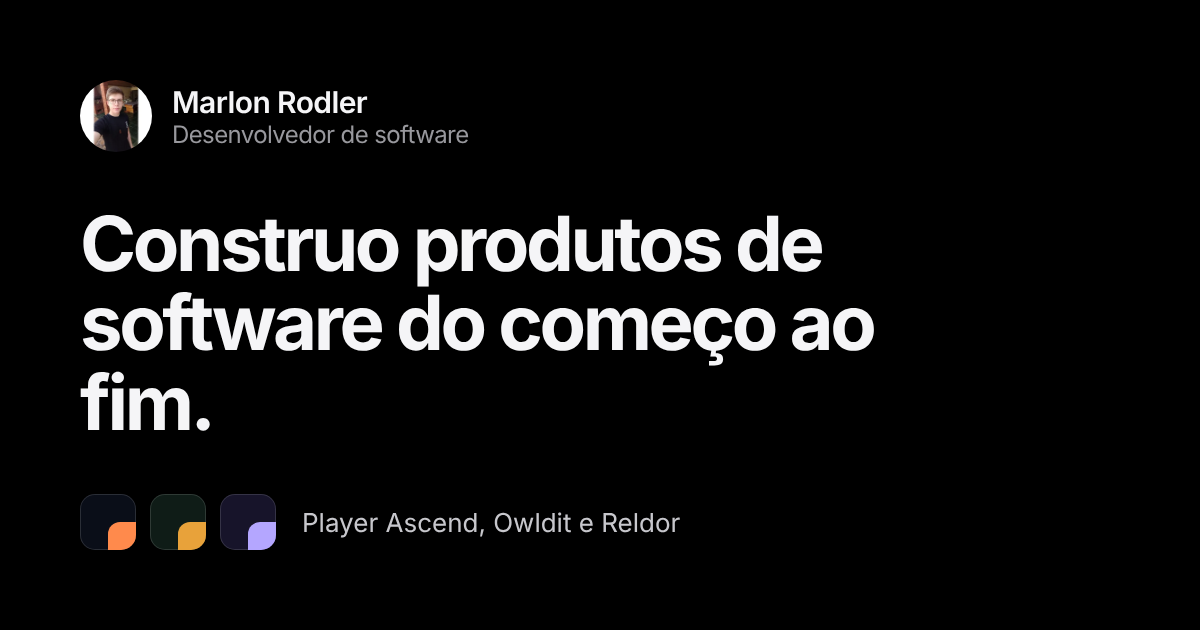
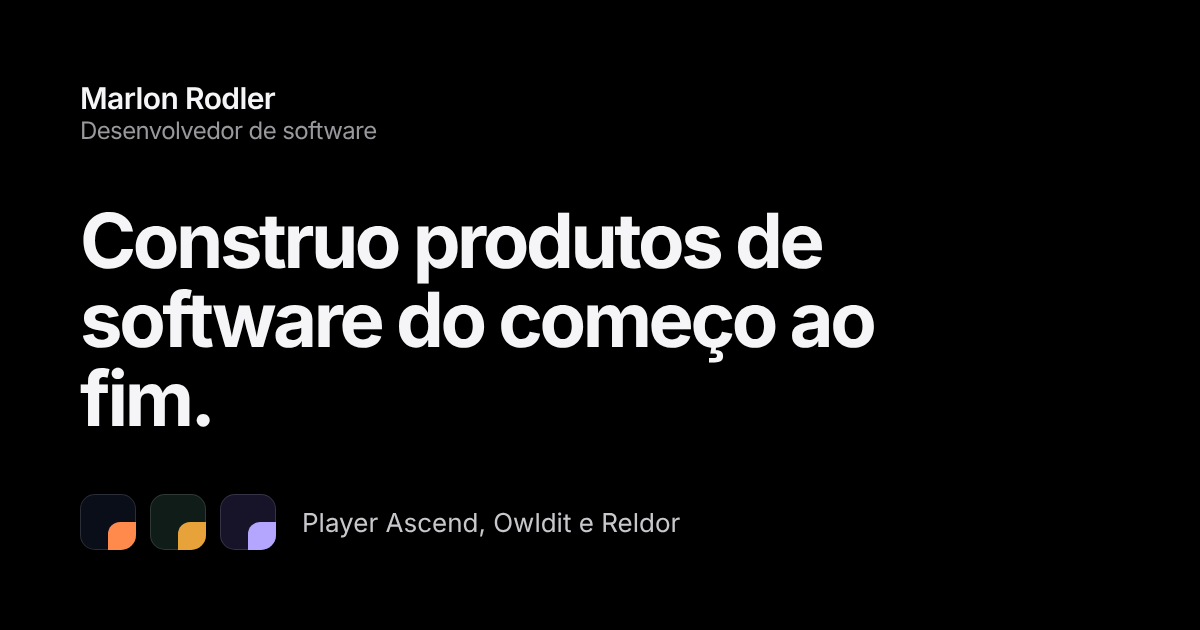
Contato pelo LinkedIn e site sem foto por enquanto
Claude-Session: https://claude.ai/code/session_01Ba6k82qajC9v6rEK4Nmhgg

diff --git a/index.html b/index.html
@@ -23,7 +23,7 @@
 <link rel="apple-touch-icon" href="/assets/img/apple-touch-icon.png">
 <script>try{var m=localStorage.getItem('theme');if(m==='light'||m==='dark')document.documentElement.dataset.theme=m}catch(_){}</script>
 <link rel="stylesheet" href="/assets/site.css">
-<script type="application/ld+json">{"@context":"https://schema.org","@type":"Person","name":"Marlon Rodler","jobTitle":"Desenvolvedor de software","url":"https://marlonrodler.github.io/","sameAs":["https://github.com/marlonrodler"]}</script>
+<script type="application/ld+json">{"@context":"https://schema.org","@type":"Person","name":"Marlon Rodler","jobTitle":"Desenvolvedor de software","url":"https://marlonrodler.github.io/","sameAs":["https://github.com/marlonrodler","https://www.linkedin.com/in/marlonrodler/"]}</script>
 </head>
 <body>
 <a class="skip" href="#conteudo">Pular para o conteúdo</a>
@@ -38,7 +38,7 @@
       <div class="seg" role="group" aria-label="Tema">
         <button type="button" class="seg__btn" data-theme-choice="auto" aria-pressed="false" title="Automático"><svg class="icon" viewBox="0 0 24 24" width="20" height="20" fill="none" stroke="currentColor" stroke-width="1.6" stroke-linecap="round" stroke-linejoin="round" aria-hidden="true" focusable="false"><circle cx="12" cy="12" r="8"/><path d="M12 4a8 8 0 0 1 0 16z" fill="currentColor" stroke="none"/></svg><span class="sr-only">Automático</span></button><button type="button" class="seg__btn" data-theme-choice="light" aria-pressed="false" title="Claro"><svg class="icon" viewBox="0 0 24 24" width="20" height="20" fill="none" stroke="currentColor" stroke-width="1.6" stroke-linecap="round" stroke-linejoin="round" aria-hidden="true" focusable="false"><circle cx="12" cy="12" r="4"/><path d="M12 3v1.5M12 19.5V21M3 12h1.5M19.5 12H21M5.6 5.6l1.1 1.1M17.3 17.3l1.1 1.1M5.6 18.4l1.1-1.1M17.3 6.7l1.1-1.1"/></svg><span class="sr-only">Claro</span></button><button type="button" class="seg__btn" data-theme-choice="dark" aria-pressed="false" title="Escuro"><svg class="icon" viewBox="0 0 24 24" width="20" height="20" fill="none" stroke="currentColor" stroke-width="1.6" stroke-linecap="round" stroke-linejoin="round" aria-hidden="true" focusable="false"><path d="M19 14.5A7.5 7.5 0 0 1 9.5 5a7.5 7.5 0 1 0 9.5 9.5z"/></svg><span class="sr-only">Escuro</span></button>
       </div>
-      <a class="icon-btn" href="https://github.com/marlonrodler" target="_blank" rel="noopener noreferrer" aria-label="GitHub (abre em nova aba)"><svg class="icon" viewBox="0 0 24 24" width="20" height="20" fill="currentColor" aria-hidden="true" focusable="false"><path d="M12 2.5a9.5 9.5 0 0 0-3 18.52c.48.09.65-.2.65-.46v-1.6c-2.64.57-3.2-1.27-3.2-1.27-.43-1.1-1.06-1.39-1.06-1.39-.86-.59.07-.58.07-.58.95.07 1.45.98 1.45.98.85 1.45 2.22 1.03 2.76.79.09-.61.33-1.03.6-1.27-2.1-.24-4.32-1.05-4.32-4.68 0-1.03.37-1.88.98-2.54-.1-.24-.42-1.2.09-2.5 0 0 .8-.26 2.62.97a9.1 9.1 0 0 1 4.77 0c1.82-1.23 2.61-.97 2.61-.97.52 1.3.2 2.26.1 2.5.6.66.98 1.51.98 2.54 0 3.64-2.22 4.44-4.33 4.67.34.3.65.88.65 1.78v2.64c0 .26.17.56.66.46A9.5 9.5 0 0 0 12 2.5z"/></svg></a>
+      <a class="icon-btn" href="https://github.com/marlonrodler" target="_blank" rel="noopener noreferrer" aria-label="GitHub (abre em nova aba)"><svg class="icon" viewBox="0 0 24 24" width="20" height="20" fill="currentColor" aria-hidden="true" focusable="false"><path d="M12 2.5a9.5 9.5 0 0 0-3 18.52c.48.09.65-.2.65-.46v-1.6c-2.64.57-3.2-1.27-3.2-1.27-.43-1.1-1.06-1.39-1.06-1.39-.86-.59.07-.58.07-.58.95.07 1.45.98 1.45.98.85 1.45 2.22 1.03 2.76.79.09-.61.33-1.03.6-1.27-2.1-.24-4.32-1.05-4.32-4.68 0-1.03.37-1.88.98-2.54-.1-.24-.42-1.2.09-2.5 0 0 .8-.26 2.62.97a9.1 9.1 0 0 1 4.77 0c1.82-1.23 2.61-.97 2.61-.97.52 1.3.2 2.26.1 2.5.6.66.98 1.51.98 2.54 0 3.64-2.22 4.44-4.33 4.67.34.3.65.88.65 1.78v2.64c0 .26.17.56.66.46A9.5 9.5 0 0 0 12 2.5z"/></svg></a><a class="icon-btn" href="https://www.linkedin.com/in/marlonrodler/" target="_blank" rel="noopener noreferrer" aria-label="LinkedIn (abre em nova aba)"><svg class="icon" viewBox="0 0 24 24" width="20" height="20" fill="currentColor" aria-hidden="true" focusable="false"><path d="M5.3 8.6h2.9V19H5.3zM6.75 4a1.7 1.7 0 1 1 0 3.4 1.7 1.7 0 0 1 0-3.4zM10.1 8.6h2.8V10h.04c.39-.74 1.34-1.52 2.76-1.52 2.95 0 3.5 1.94 3.5 4.47V19h-2.9v-5.36c0-1.28-.02-2.92-1.78-2.92-1.78 0-2.05 1.39-2.05 2.83V19h-2.9z"/></svg></a>
       <button type="button" class="icon-btn nav-toggle" aria-expanded="false" aria-controls="nav" data-nav-toggle data-label-open="Menu" data-label-close="Fechar menu">
         <span class="nav-toggle__open"><svg class="icon" viewBox="0 0 24 24" width="20" height="20" fill="none" stroke="currentColor" stroke-width="1.6" stroke-linecap="round" stroke-linejoin="round" aria-hidden="true" focusable="false"><path d="M4 8h16M4 16h16"/></svg></span><span class="nav-toggle__close"><svg class="icon" viewBox="0 0 24 24" width="20" height="20" fill="none" stroke="currentColor" stroke-width="1.6" stroke-linecap="round" stroke-linejoin="round" aria-hidden="true" focusable="false"><path d="M6 6l12 12M18 6L6 18"/></svg></span><span class="sr-only" data-nav-label>Menu</span>
       </button>
@@ -50,7 +50,7 @@
   <section class="hero wrap" id="topo" aria-labelledby="hero-title">
     <div class="hero__intro">
       <p class="hero__who">
-        <img src="/assets/img/marlon-320.webp" width="160" height="160" alt="Foto de Marlon Rodler" fetchpriority="high">
+        
         <span><strong>Marlon Rodler</strong><span>Desenvolvedor de software</span></span>
       </p>
       <h1 id="hero-title">Construo produtos de software do começo ao fim.</h1>
@@ -172,7 +172,7 @@
   </li><li class="other">
     <div class="other__main">
       <h3>Champions Challenge</h3>
-      <p>Desafio para acertar o nome de todos os campeões de League of Legends antes de o tempo acabar.</p>
+      <p>Desafio para acertar o nome de todos os campeões de League of Legends antes que o tempo acabe.</p>
     </div>
     <div class="other__side">
       <span class="status">Em modernização</span>
@@ -212,8 +212,8 @@
 
   <section class="section wrap contact" id="contato" aria-labelledby="contato-title">
     <h2 id="contato-title">Contato</h2>
-    <p>Para conversar sobre uma vaga, um projeto ou algum dos produtos, me chame por aqui.</p>
-    <ul class="contact__links"><li><a class="contact-link" href="https://github.com/marlonrodler" target="_blank" rel="noopener noreferrer">GitHub<svg class="icon" viewBox="0 0 24 24" width="20" height="20" fill="currentColor" aria-hidden="true" focusable="false"><path d="M12 2.5a9.5 9.5 0 0 0-3 18.52c.48.09.65-.2.65-.46v-1.6c-2.64.57-3.2-1.27-3.2-1.27-.43-1.1-1.06-1.39-1.06-1.39-.86-.59.07-.58.07-.58.95.07 1.45.98 1.45.98.85 1.45 2.22 1.03 2.76.79.09-.61.33-1.03.6-1.27-2.1-.24-4.32-1.05-4.32-4.68 0-1.03.37-1.88.98-2.54-.1-.24-.42-1.2.09-2.5 0 0 .8-.26 2.62.97a9.1 9.1 0 0 1 4.77 0c1.82-1.23 2.61-.97 2.61-.97.52 1.3.2 2.26.1 2.5.6.66.98 1.51.98 2.54 0 3.64-2.22 4.44-4.33 4.67.34.3.65.88.65 1.78v2.64c0 .26.17.56.66.46A9.5 9.5 0 0 0 12 2.5z"/></svg><span class="sr-only"> (abre em nova aba)</span></a></li></ul>
+    <p>Para conversar sobre uma vaga, um projeto ou algum dos produtos, me chame no LinkedIn.</p>
+    <ul class="contact__links"><li><a class="contact-link" href="https://www.linkedin.com/in/marlonrodler/" target="_blank" rel="noopener noreferrer">LinkedIn<svg class="icon" viewBox="0 0 24 24" width="20" height="20" fill="currentColor" aria-hidden="true" focusable="false"><path d="M5.3 8.6h2.9V19H5.3zM6.75 4a1.7 1.7 0 1 1 0 3.4 1.7 1.7 0 0 1 0-3.4zM10.1 8.6h2.8V10h.04c.39-.74 1.34-1.52 2.76-1.52 2.95 0 3.5 1.94 3.5 4.47V19h-2.9v-5.36c0-1.28-.02-2.92-1.78-2.92-1.78 0-2.05 1.39-2.05 2.83V19h-2.9z"/></svg><span class="sr-only"> (abre em nova aba)</span></a></li><li><a class="contact-link" href="https://github.com/marlonrodler" target="_blank" rel="noopener noreferrer">GitHub<svg class="icon" viewBox="0 0 24 24" width="20" height="20" fill="currentColor" aria-hidden="true" focusable="false"><path d="M12 2.5a9.5 9.5 0 0 0-3 18.52c.48.09.65-.2.65-.46v-1.6c-2.64.57-3.2-1.27-3.2-1.27-.43-1.1-1.06-1.39-1.06-1.39-.86-.59.07-.58.07-.58.95.07 1.45.98 1.45.98.85 1.45 2.22 1.03 2.76.79.09-.61.33-1.03.6-1.27-2.1-.24-4.32-1.05-4.32-4.68 0-1.03.37-1.88.98-2.54-.1-.24-.42-1.2.09-2.5 0 0 .8-.26 2.62.97a9.1 9.1 0 0 1 4.77 0c1.82-1.23 2.61-.97 2.61-.97.52 1.3.2 2.26.1 2.5.6.66.98 1.51.98 2.54 0 3.64-2.22 4.44-4.33 4.67.34.3.65.88.65 1.78v2.64c0 .26.17.56.66.46A9.5 9.5 0 0 0 12 2.5z"/></svg><span class="sr-only"> (abre em nova aba)</span></a></li></ul>
   </section>
 </main>
 
